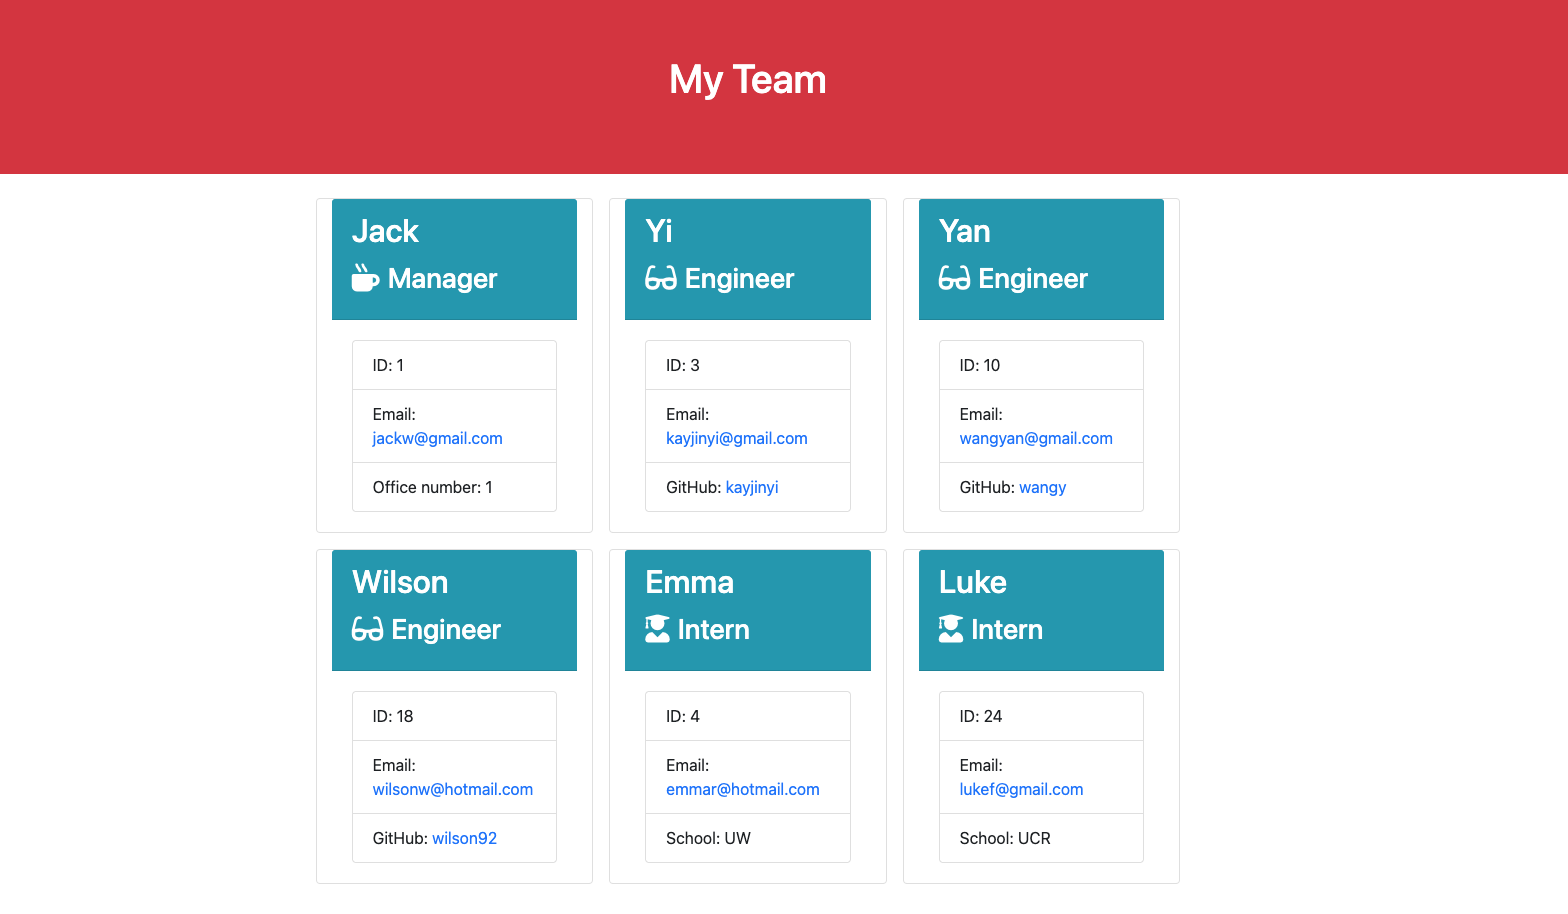
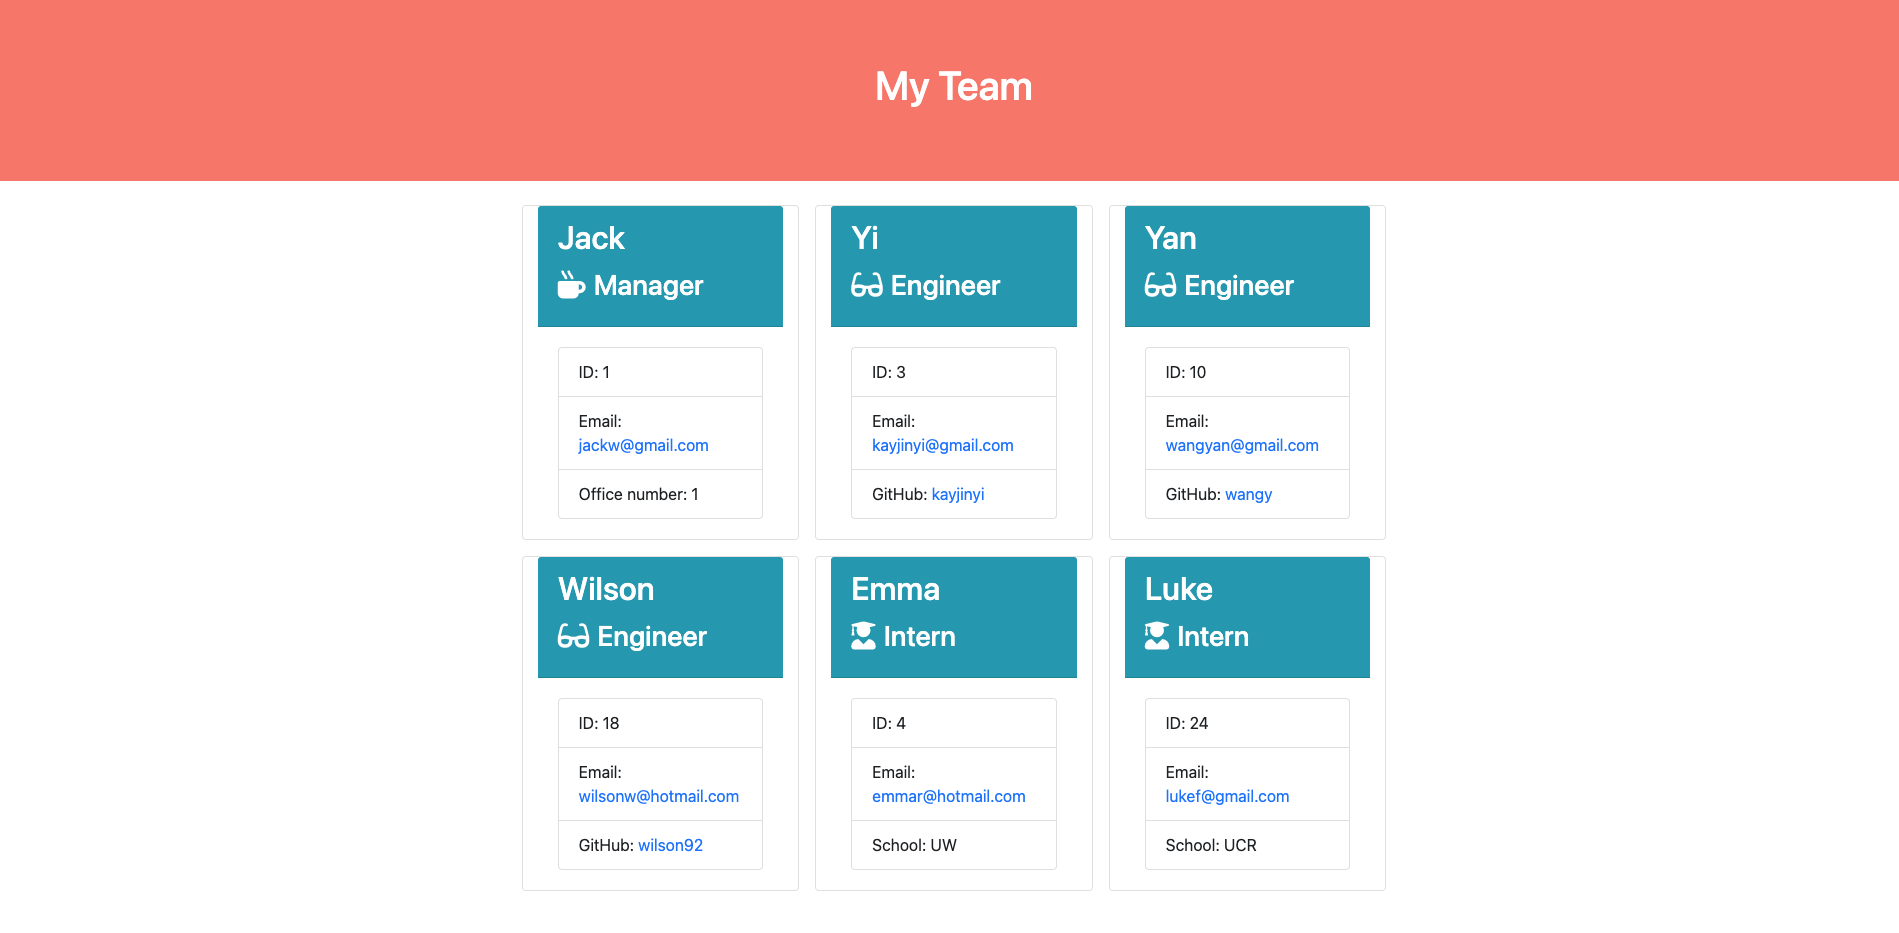
update

diff --git a/index.html b/index.html
@@ -1,117 +1,168 @@
-
-    <!DOCTYPE html>
+<!DOCTYPE html>
 <html lang="en">
-
-<head>
+  <head>
     <meta charset="UTF-8" />
     <meta name="viewport" content="width=device-width, initial-scale=1.0" />
     <meta http-equiv="X-UA-Compatible" content="ie=edge" />
     <title>My Team</title>
-    <link rel="stylesheet" href="https://stackpath.bootstrapcdn.com/bootstrap/4.3.1/css/bootstrap.min.css"
-        integrity="sha384-ggOyR0iXCbMQv3Xipma34MD+dH/1fQ784/j6cY/iJTQUOhcWr7x9JvoRxT2MZw1T" crossorigin="anonymous">
-    <link rel="stylesheet" href="style.css">
+    <link
+      rel="stylesheet"
+      href="https://stackpath.bootstrapcdn.com/bootstrap/4.3.1/css/bootstrap.min.css"
+      integrity="sha384-ggOyR0iXCbMQv3Xipma34MD+dH/1fQ784/j6cY/iJTQUOhcWr7x9JvoRxT2MZw1T"
+      crossorigin="anonymous"
+    />
+    <link rel="stylesheet" href="./src/style.css" />
     <script src="https://kit.fontawesome.com/c502137733.js"></script>
-</head>
+  </head>
 
-<body>
+  <body>
     <div class="container-fluid">
-        <div class="row">
-            <div class="col-12 jumbotron mb-3 bg-danger team-heading">
-                <h1 class="text-center text-white">My Team</h1>
-            </div>
+      <div class="row">
+        <div class="col-12 jumbotron mb-3 salmonbackground team-heading">
+          <h1 class="text-center text-white">My Team</h1>
         </div>
+      </div>
     </div>
     <div class="container">
-        <div class="row">
-            <div class="team-area col-12 d-flex justify-content-center flex-wrap">
-                
-        <div class="card employee-card col-12 col-md-6 col-lg-3 m-2 p2">
-        <div class="card-header text-white bg-info">
-            <h2 class="card-title">Jack</h2>
-            <h3 class="card-title"><i class="fas fa-mug-hot mr-2"></i>Manager</h3>
-        </div>
-        <div class="card-body">
-            <ul class="list-group">
-                <li class="list-group-item">ID: 1</li>
-                <li class="list-group-item">Email: <a href="mailto:jackw@gmail.com">jackw@gmail.com</a></li>
-                <li class="list-group-item">Office number: 1</li>
-            </ul>
-        </div>
-    </div>
-        
-        <div class="card employee-card col-12 col-md-6 col-lg-3 m-2 p2">
-    <div class="card-header text-white bg-info">
-        <h2 class="card-title">Yi</h2>
-        <h3 class="card-title"><i class="fas fa-glasses mr-2"></i>Engineer</h3>
-    </div>
-    <div class="card-body">
-        <ul class="list-group">
-            <li class="list-group-item">ID: 3</li>
-            <li class="list-group-item">Email: <a href="mailto:kayjinyi@gmail.com">kayjinyi@gmail.com</a></li>
-            <li class="list-group-item">GitHub: <a href="https://github.com/kayjinyi" target="_blank" rel="noopener noreferrer">kayjinyi</a></li>
-        </ul>
-    </div>
-</div>
-        
-        <div class="card employee-card col-12 col-md-6 col-lg-3 m-2 p2">
-    <div class="card-header text-white bg-info">
-        <h2 class="card-title">Yan</h2>
-        <h3 class="card-title"><i class="fas fa-glasses mr-2"></i>Engineer</h3>
-    </div>
-    <div class="card-body">
-        <ul class="list-group">
-            <li class="list-group-item">ID: 10</li>
-            <li class="list-group-item">Email: <a href="mailto:wangyan@gmail.com">wangyan@gmail.com</a></li>
-            <li class="list-group-item">GitHub: <a href="https://github.com/wangy" target="_blank" rel="noopener noreferrer">wangy</a></li>
-        </ul>
-    </div>
-</div>
-        
-        <div class="card employee-card col-12 col-md-6 col-lg-3 m-2 p2">
-    <div class="card-header text-white bg-info">
-        <h2 class="card-title">Wilson</h2>
-        <h3 class="card-title"><i class="fas fa-glasses mr-2"></i>Engineer</h3>
-    </div>
-    <div class="card-body">
-        <ul class="list-group">
-            <li class="list-group-item">ID: 18</li>
-            <li class="list-group-item">Email: <a href="mailto:wilsonw@hotmail.com">wilsonw@hotmail.com</a></li>
-            <li class="list-group-item">GitHub: <a href="https://github.com/wilson92" target="_blank" rel="noopener noreferrer">wilson92</a></li>
-        </ul>
-    </div>
-</div>
-        
-        <div class="card employee-card col-12 col-md-6 col-lg-3 m-2 p2">
-    <div class="card-header text-white bg-info">
-        <h2 class="card-title">Emma</h2>
-        <h3 class="card-title"><i class="fas fa-user-graduate mr-2"></i>Intern</h3>
-    </div>
-    <div class="card-body">
-        <ul class="list-group">
-            <li class="list-group-item">ID: 4</li>
-            <li class="list-group-item">Email: <a href="mailto:emmar@hotmail.com">emmar@hotmail.com</a></li>
-            <li class="list-group-item">School: UW</li>
-        </ul>
-    </div>
-</div>
-        
-        <div class="card employee-card col-12 col-md-6 col-lg-3 m-2 p2">
-    <div class="card-header text-white bg-info">
-        <h2 class="card-title">Luke</h2>
-        <h3 class="card-title"><i class="fas fa-user-graduate mr-2"></i>Intern</h3>
-    </div>
-    <div class="card-body">
-        <ul class="list-group">
-            <li class="list-group-item">ID: 24</li>
-            <li class="list-group-item">Email: <a href="mailto:lukef@gmail.com">lukef@gmail.com</a></li>
-            <li class="list-group-item">School: UCR</li>
-        </ul>
-    </div>
-</div>
-        
+      <div class="row">
+        <div class="team-area col-12 d-flex justify-content-center flex-wrap">
+          <div class="card employee-card col-12 col-md-6 col-lg-3 m-2 p2">
+            <div class="card-header text-white bg-info">
+              <h2 class="card-title">Jack</h2>
+              <h3 class="card-title">
+                <i class="fas fa-mug-hot mr-2"></i>Manager
+              </h3>
             </div>
+            <div class="card-body">
+              <ul class="list-group">
+                <li class="list-group-item">ID: 1</li>
+                <li class="list-group-item">
+                  Email: <a href="mailto:jackw@gmail.com">jackw@gmail.com</a>
+                </li>
+                <li class="list-group-item">Office number: 1</li>
+              </ul>
+            </div>
+          </div>
+
+          <div class="card employee-card col-12 col-md-6 col-lg-3 m-2 p2">
+            <div class="card-header text-white bg-info">
+              <h2 class="card-title">Yi</h2>
+              <h3 class="card-title">
+                <i class="fas fa-glasses mr-2"></i>Engineer
+              </h3>
+            </div>
+            <div class="card-body">
+              <ul class="list-group">
+                <li class="list-group-item">ID: 3</li>
+                <li class="list-group-item">
+                  Email:
+                  <a href="mailto:kayjinyi@gmail.com">kayjinyi@gmail.com</a>
+                </li>
+                <li class="list-group-item">
+                  GitHub:
+                  <a
+                    href="https://github.com/kayjinyi"
+                    target="_blank"
+                    rel="noopener noreferrer"
+                    >kayjinyi</a
+                  >
+                </li>
+              </ul>
+            </div>
+          </div>
+
+          <div class="card employee-card col-12 col-md-6 col-lg-3 m-2 p2">
+            <div class="card-header text-white bg-info">
+              <h2 class="card-title">Yan</h2>
+              <h3 class="card-title">
+                <i class="fas fa-glasses mr-2"></i>Engineer
+              </h3>
+            </div>
+            <div class="card-body">
+              <ul class="list-group">
+                <li class="list-group-item">ID: 10</li>
+                <li class="list-group-item">
+                  Email:
+                  <a href="mailto:wangyan@gmail.com">wangyan@gmail.com</a>
+                </li>
+                <li class="list-group-item">
+                  GitHub:
+                  <a
+                    href="https://github.com/wangy"
+                    target="_blank"
+                    rel="noopener noreferrer"
+                    >wangy</a
+                  >
+                </li>
+              </ul>
+            </div>
+          </div>
+
+          <div class="card employee-card col-12 col-md-6 col-lg-3 m-2 p2">
+            <div class="card-header text-white bg-info">
+              <h2 class="card-title">Wilson</h2>
+              <h3 class="card-title">
+                <i class="fas fa-glasses mr-2"></i>Engineer
+              </h3>
+            </div>
+            <div class="card-body">
+              <ul class="list-group">
+                <li class="list-group-item">ID: 18</li>
+                <li class="list-group-item">
+                  Email:
+                  <a href="mailto:wilsonw@hotmail.com">wilsonw@hotmail.com</a>
+                </li>
+                <li class="list-group-item">
+                  GitHub:
+                  <a
+                    href="https://github.com/wilson92"
+                    target="_blank"
+                    rel="noopener noreferrer"
+                    >wilson92</a
+                  >
+                </li>
+              </ul>
+            </div>
+          </div>
+
+          <div class="card employee-card col-12 col-md-6 col-lg-3 m-2 p2">
+            <div class="card-header text-white bg-info">
+              <h2 class="card-title">Emma</h2>
+              <h3 class="card-title">
+                <i class="fas fa-user-graduate mr-2"></i>Intern
+              </h3>
+            </div>
+            <div class="card-body">
+              <ul class="list-group">
+                <li class="list-group-item">ID: 4</li>
+                <li class="list-group-item">
+                  Email:
+                  <a href="mailto:emmar@hotmail.com">emmar@hotmail.com</a>
+                </li>
+                <li class="list-group-item">School: UW</li>
+              </ul>
+            </div>
+          </div>
+
+          <div class="card employee-card col-12 col-md-6 col-lg-3 m-2 p2">
+            <div class="card-header text-white bg-info">
+              <h2 class="card-title">Luke</h2>
+              <h3 class="card-title">
+                <i class="fas fa-user-graduate mr-2"></i>Intern
+              </h3>
+            </div>
+            <div class="card-body">
+              <ul class="list-group">
+                <li class="list-group-item">ID: 24</li>
+                <li class="list-group-item">
+                  Email: <a href="mailto:lukef@gmail.com">lukef@gmail.com</a>
+                </li>
+                <li class="list-group-item">School: UCR</li>
+              </ul>
+            </div>
+          </div>
         </div>
+      </div>
     </div>
-</body>
+  </body>
 </html>
-    

diff --git a/util/generateHtml.js b/util/generateHtml.js
@@ -98,7 +98,7 @@ module.exports = (team) => {
     <title>My Team</title>
     <link rel="stylesheet" href="https://stackpath.bootstrapcdn.com/bootstrap/4.3.1/css/bootstrap.min.css"
         integrity="sha384-ggOyR0iXCbMQv3Xipma34MD+dH/1fQ784/j6cY/iJTQUOhcWr7x9JvoRxT2MZw1T" crossorigin="anonymous">
-    <link rel="stylesheet" href="style.css">
+    <link rel="stylesheet" href="./src/style.css">
     <script src="https://kit.fontawesome.com/c502137733.js"></script>
 </head>
 

diff --git a/src/style.css b/src/style.css
@@ -1,0 +1,3 @@
+.salmonbackground {
+  background-color: salmon;
+}
